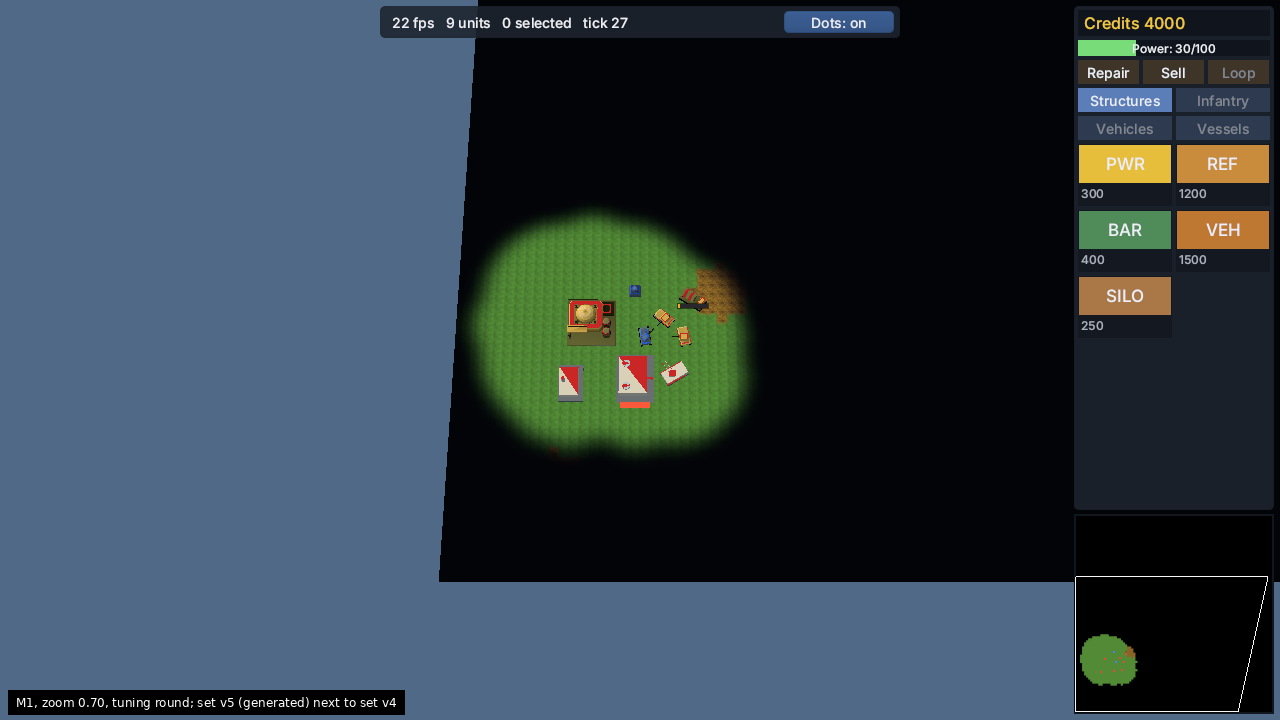
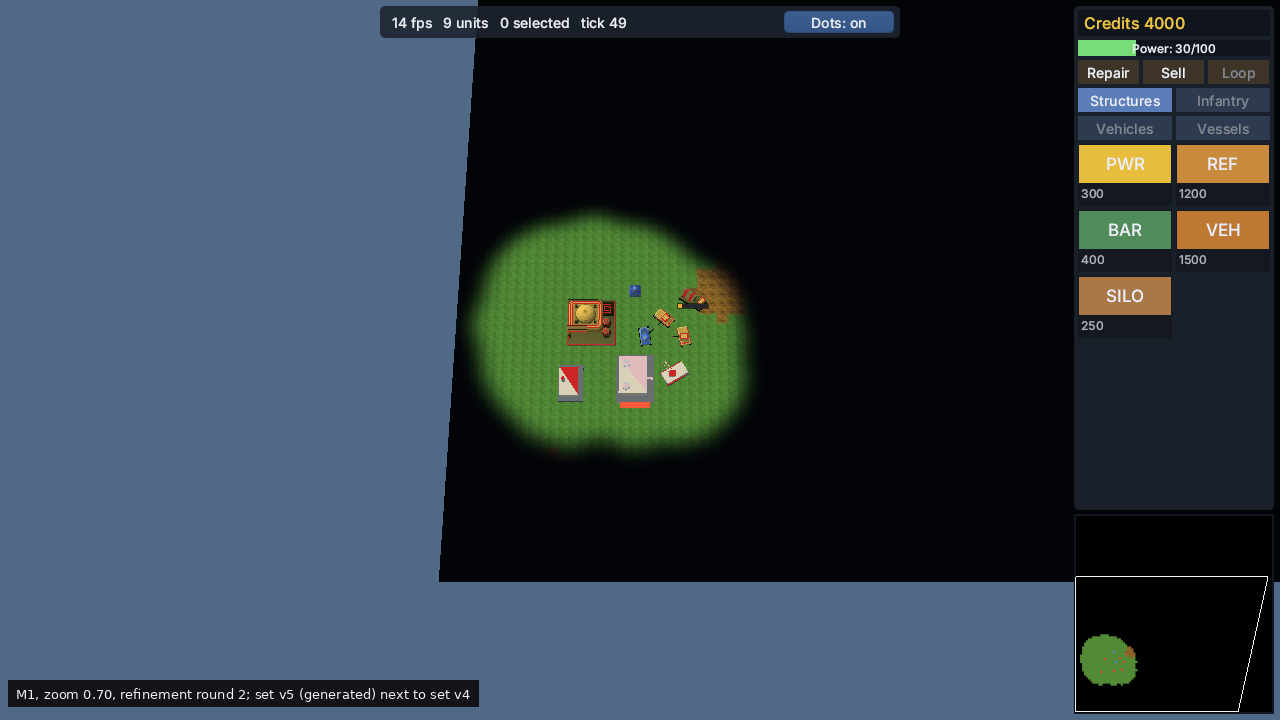
WP11.6a refinement round 2: M1 shots re-rendered, art-style, progress, licence line
Claude-Session: https://claude.ai/code/session_01E9comaZi2PE6iTmoHWTfFn

diff --git a/assets/LICENSES.md b/assets/LICENSES.md
@@ -95,7 +95,7 @@ Made by our own generator; nothing downloaded. One line per model file; the cuts
 | `set_v5/veyran_power_plant.glb` | **Own work.** Generated by this project with `cargo run -p sf_model_gen` (`tools/sf_model_gen`, WP11.6a): integer-millimetre geometry, vertex colours and baked shading; no external mesh, texture or third-party material; the recipe is `tools/sf_model_gen/src/models.rs`, a test checks the committed file equals a fresh run. Style reference: a concept sheet generated with Canva at the project owner's request, not shipped and not traced; author: Claude (Anthropic) | Project license (see workspace `Cargo.toml`) |
 | `config/model_palette.ron` | **Own work.** The set v5 palette (style G, decision Tijmen 14-11-2026), read by `tools/sf_model_gen`; author: Claude (Anthropic) | Project license (see workspace `Cargo.toml`) |
 | `scenes/restyle_v5/captain_elian/*.png`, `scenes/restyle_v5/mira/*.png` | **Own work.** The parts (and mouth shapes) of the two rigs of `scenes/f1_m01_briefing.ron`, redrawn in the set v5 style by `cargo run -p sf_model_gen` (`tools/sf_model_gen/src/cutout.rs`): two tones, a soft shade and a thin outline, integer maths, PNG written by the tool; the list of files is what `sf_model_gen::cutout_files()` returns (a test checks the folder holds exactly those); not used by the shipped scene yet; author: Claude (Anthropic) | Project license (see workspace `Cargo.toml`) |
-| `../docs/screenshots/wp11.6a/*.png` | Pictures made by `crates/sf_render/tests/set_v5_load.rs` (contact sheet), `tools/sf_model_gen/tests/cutout.rs` (cutscene frame before and after) with `SF_SAVE_SHOTS` (offscreen render with Mesa lavapipe; `contact_sheet_before_after.png` puts rows of the first contact sheet next to the tuning round's), and the real game window (`xvfb-run sf_game --match <M1 with extra starting objects> --shots`, Mesa lavapipe); labels added with a small script | Project license (see workspace `Cargo.toml`) |
+| `../docs/screenshots/wp11.6a/*.png` | Pictures made by `crates/sf_render/tests/set_v5_load.rs` (contact sheet), `tools/sf_model_gen/tests/cutout.rs` (cutscene frame before and after) with `SF_SAVE_SHOTS` (offscreen render with Mesa lavapipe; `contact_sheet_before_after.png` puts rows of the first contact sheet next to the tuning round's, `contact_sheet_round2.png` the first column of the first, tuning and refinement-round-2 sheets), and the real game window (`xvfb-run sf_game --match <M1 with extra starting objects> --shots`, Mesa lavapipe); labels added with a small script | Project license (see workspace `Cargo.toml`) |
 
 ## Art set v4 (`assets/set_v4`): project licence
 

diff --git a/docs/art-style.md b/docs/art-style.md
@@ -50,6 +50,14 @@ A test pins the shipped values (`tools/sf_model_gen/tests/models.rs`,
 
 The team colour is the engine's dynamic region (the material named `team`):
 
+- **narrow stripes, not frames** (refinement round 2, 14-11-2026): every band is about
+  0.25-0.35 m wide, so the team colour reads as markings; a test holds every upward-facing team
+  triangle of LOD0 and LOD1 to at most 350 mm across (`every_team_band_is_narrow`; LOD2 is the far
+  view, where the harvester drum keeps two wider bands for its 150-triangle budget). Where narrow
+  stripes do not reach 20 %, add stripes rather than widening them: two concentric roof bands
+  (`team_rings`, built with `insets` so the band is equally wide across the chamfers), a platform
+  edge stripe, two cross bands on a deck, stripes on a crane arm, a ring on a tank top, four narrow
+  drum bands;
 - **bands and trim, never whole surfaces** (tuning round 14-11-2026): a band round the turret roof
   edge, a stripe across the rear deck, a stripe along the fenders or the hull top, panels on the
   skirts, a band round a building's roof edge, a flange on a stack, the shoulder of a tank, a pad
@@ -90,13 +98,15 @@ the material colour:
 - **edge wear:** a bevel strip (no axis-aligned normal, narrower than 320 mm) whose corner sees open
   sky (no AO ray blocked) is, on about two thirds of its triangles (fixed hash), moved 35 % towards a
   grey a quarter above its luminance: lighter and less saturated, as paint rubbed thin. Big slanted
-  facets (a dome segment) are not edges and get none.
+  facets (a dome segment) are not edges and get none, and neither does any triangle of a turned
+  surface (`kit::lathe`, marked `Tri::lathed`; refinement round 2: the narrow segments of the
+  Meridian dome showed as light streaks; `a_lathed_dome_gets_no_edge_wear`).
 
 The vertex colour is RGB: the wanted linear colour divided by the material factor, which is a grey at
 the palette colour's brightest channel over 0.85 (`shade::factor`). A plain open face therefore shows
 exactly the palette colour, and highlights and worn edges stay inside glTF's 0..1 range. The team
 material keeps its own factor and ignores `COLOR_0`. Tests: `tools/sf_model_gen/tests/shade.rs`
-(one per rule: plain colour, highlight, wear, crease and grime).
+(one per rule: plain colour, highlight, wear, no wear on lathes, crease and grime).
 
 Keep colours clean and bright: the AO darkens creases, not whole surfaces; judge it in the engine
 render (contact sheet), not only in numbers.

diff --git a/docs/progress.md b/docs/progress.md
@@ -3483,3 +3483,4 @@ measurement (peak, length, silence, the mix below), not by ear. **Tijmen: please
 * **Pictures** in `docs/screenshots/wp11.6a/`: contact sheet, M1 at the default zoom, 0.70 and the farthest zoom with the new models next to set v4, and the briefing's two-shot before and after the restyled parts. **Stop for Tijmen: style check.**
 * **Gaps.** No edge wear yet; the buildings use a fifth of their budget; at the farthest zoom the icons cover the models, as before; the restyled cutscene parts are not used by the shipped scene (Phase 12); the M1 pictures use a scratch copy of `m1.ron` with extra starting objects (not committed), and the Veyran half of it is in the shroud.
 * **Tuning round (14-11-2026, orchestrator review: "tidy low-poly, not G").** Team colour is bands and trim (roof-edge bands with `kit::frame` and a flush fill, deck and fender stripes, stack flanges, tank shoulders, a pad marking): 20.7-23.9 % in every level, test cap 30 %. Shading: AO gain 2, grime 40 % up to 1.3 m, a 16 % top-edge highlight on upward bevels and edge wear on narrow open bevels; `COLOR_0` is now RGB over a grey material factor (`shade::factor`) so a plain face is still the palette colour. Buildings 3194/2584/3478 triangles in LOD0 (vents, pipes, railings, roof units, windows, door frames, bolted panels, ladders, walkways), vehicles 1264-1474 (capped wheels with hubs, track shoes, hatches, smoke dischargers, tools). New `tools/sf_model_gen/tests/shade.rs`, `buildings_use_their_detail_budget`; pins re-pinned; `contact_sheet_before_after.png` added, the contact sheet and M1 shots re-rendered (the Veyran tower and a tank now stand in view).
+* **Refinement round 2 (14-11-2026, Tijmen: "11.6 is goed, ga door, wel nog verfijnen").** Team colour as narrow stripes (at most 350 mm, `every_team_band_is_narrow`): two concentric roof bands on the buildings (`team_rings`/`insets`), platform-edge stripes, crane-arm stripes, a ring on the tank tops, four narrow drum bands, two cross bands on the Veyran tank deck; 20.7-26.2 % in every level. Veyran `paint`/`paint2` about 25 % lighter and cooler (`#7894b2` / `#4a4e68`). No edge wear on lathed triangles (`Tri::lathed`, `a_lathed_dome_gets_no_edge_wear`): the dome streaks are gone. Pins re-pinned; contact sheet, M1 shots re-rendered, `contact_sheet_round2.png` added.
